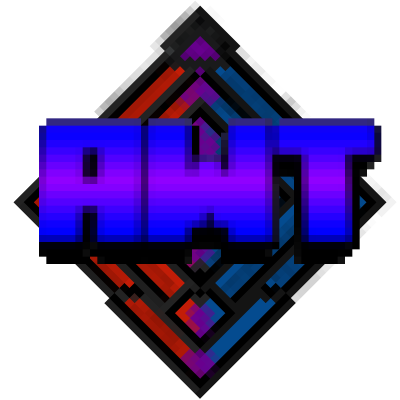
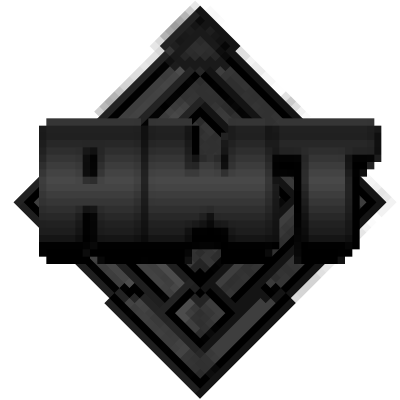
- Implemented Built In Resource Packs - New Resource Pack: REDSHIFT

Changed region(s): [[0.09, 0.09, 0.96, 0.96], [0.66, 0.63, 0.75, 0.72]]

diff --git a/src/main/java/net/awt/AdventuresWithTARDISes.java b/src/main/java/net/awt/AdventuresWithTARDISes.java
@@ -21,6 +21,13 @@ import net.awt.networking.ModPackets;
 import net.awt.sound.AWTSound;
 import net.awt.world.gen.ModWorldGeneration;
 import net.fabricmc.api.ModInitializer;
+import net.fabricmc.api.ClientModInitializer;
+import net.fabricmc.fabric.api.resource.ResourceManagerHelper;
+import net.fabricmc.fabric.api.resource.ResourcePackActivationType;
+import net.minecraft.resource.ResourcePack;
+import net.minecraft.resource.ResourcePackProfile;
+import net.minecraft.resource.ResourceType;
+import net.fabricmc.loader.api.FabricLoader;
 import net.fabricmc.fabric.api.event.player.UseBlockCallback;
 import net.fabricmc.fabric.api.event.player.UseItemCallback;
 import net.fabricmc.fabric.api.object.builder.v1.entity.FabricDefaultAttributeRegistry;
@@ -77,7 +84,32 @@ public class AdventuresWithTARDISes implements ModInitializer {
 		ModPackets.registerC2SPackets();
 
         FabricDefaultAttributeRegistry.register(ModEntities.K9, K9Entity.createK9Attributes());
+
+        // Resource Pack Handler
+        var modContainer = FabricLoader.getInstance().getModContainer("awt").orElseThrow();
+
+        ResourceManagerHelper.registerBuiltinResourcePack(
+                new Identifier("awt", "greyedgui"),
+                modContainer,
+                Text.literal("Greyed Out TARDIS Monitor GUI"),
+                ResourcePackActivationType.NORMAL
+        );
+
+        ResourceManagerHelper.registerBuiltinResourcePack(
+                new Identifier("awt", "lebronjamesgui"),
+                modContainer,
+                Text.literal("Lebron James TARDIS Monitor GUI"),
+                ResourcePackActivationType.NORMAL
+        );
+
+        ResourceManagerHelper.registerBuiltinResourcePack(
+                new Identifier("awt", "redshiftgui"),
+                modContainer,
+                Text.literal("Redshifted TARDIS Monitor GUIs"),
+                ResourcePackActivationType.NORMAL
+        );
 	}
+
 	public static Identifier id(String path) {
 		return new Identifier("awt", path);
 	}
